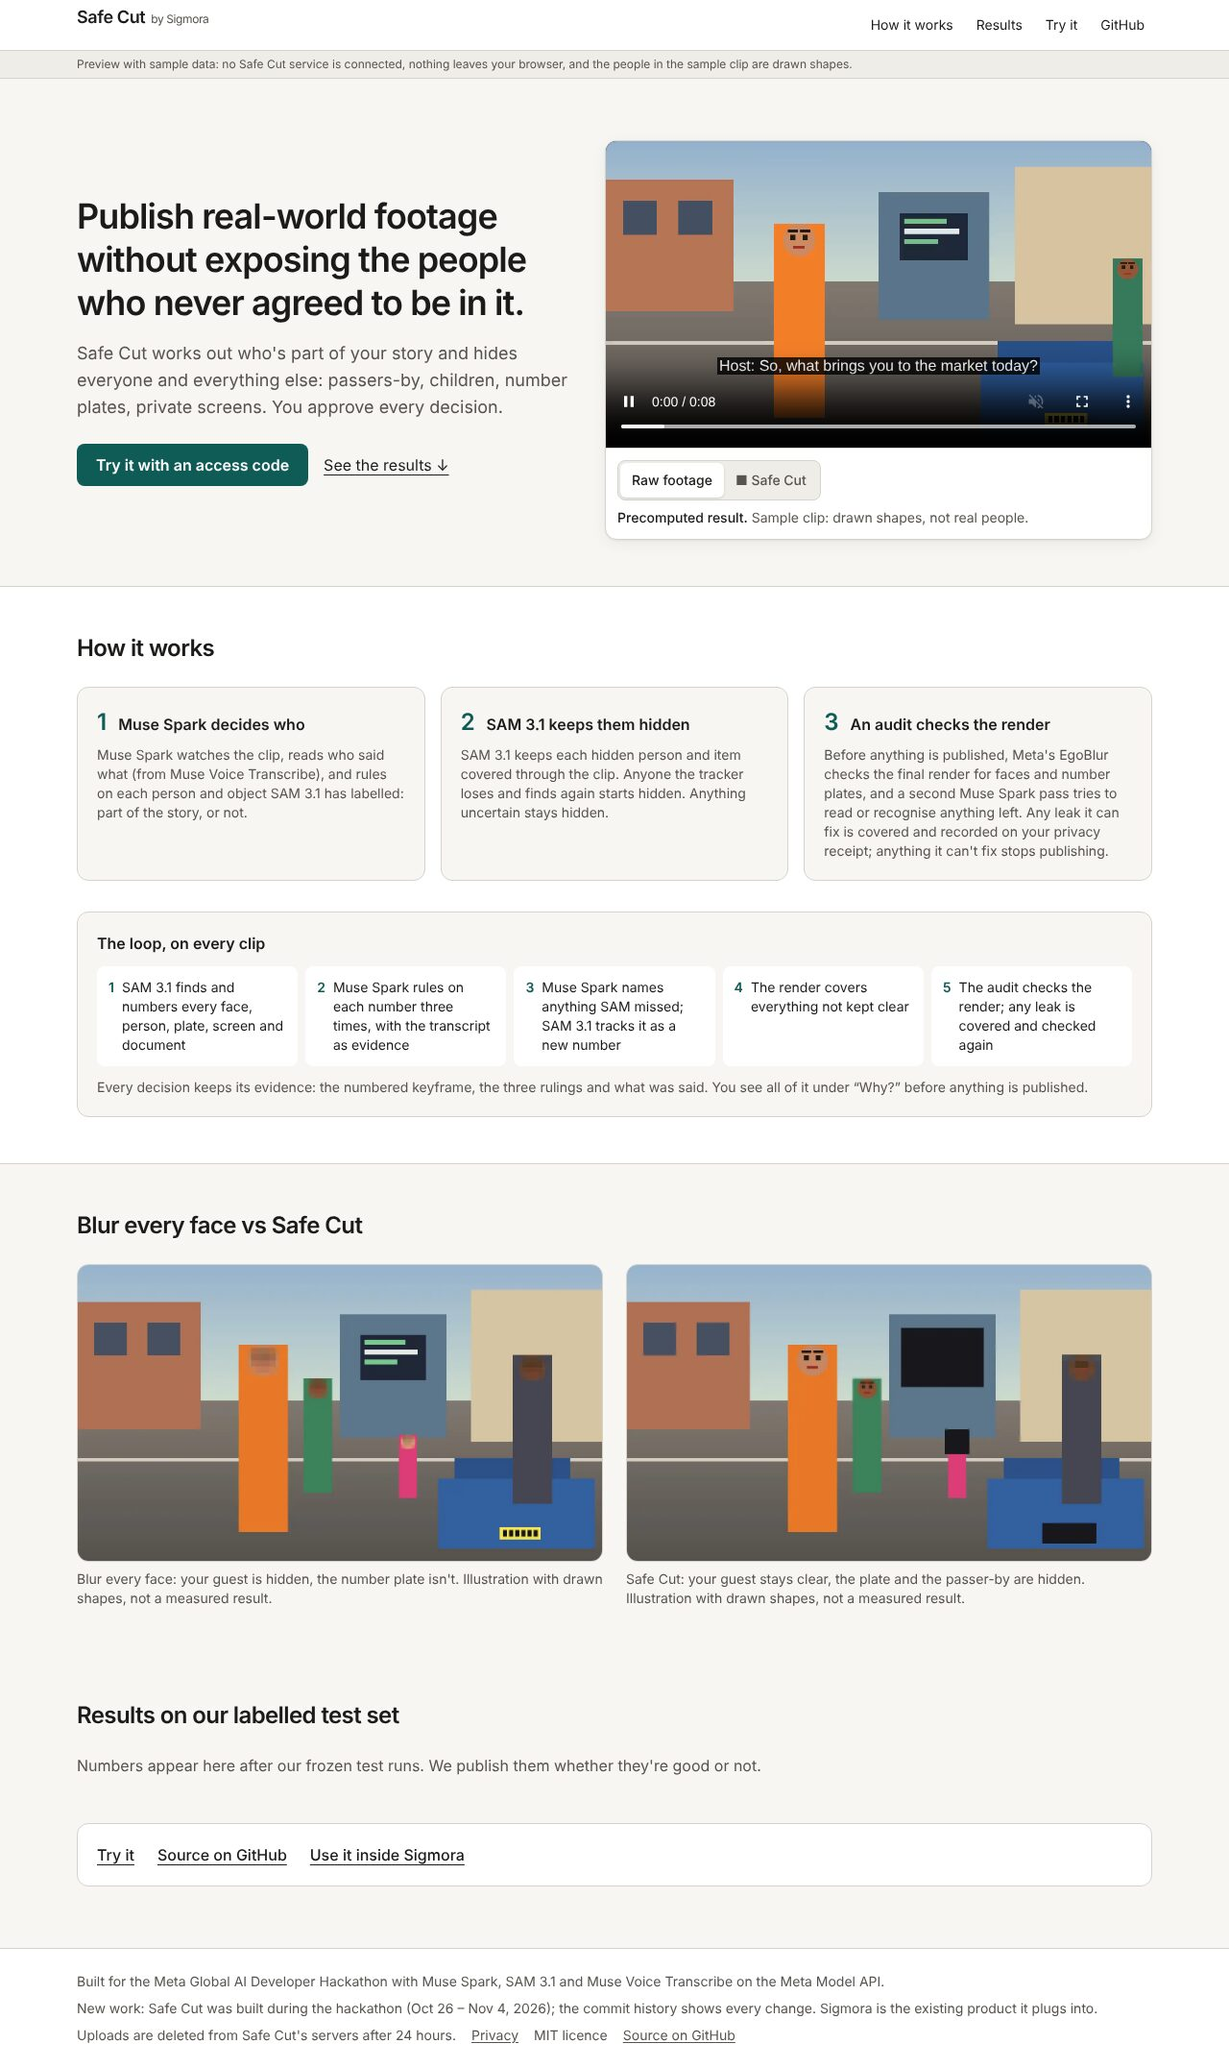
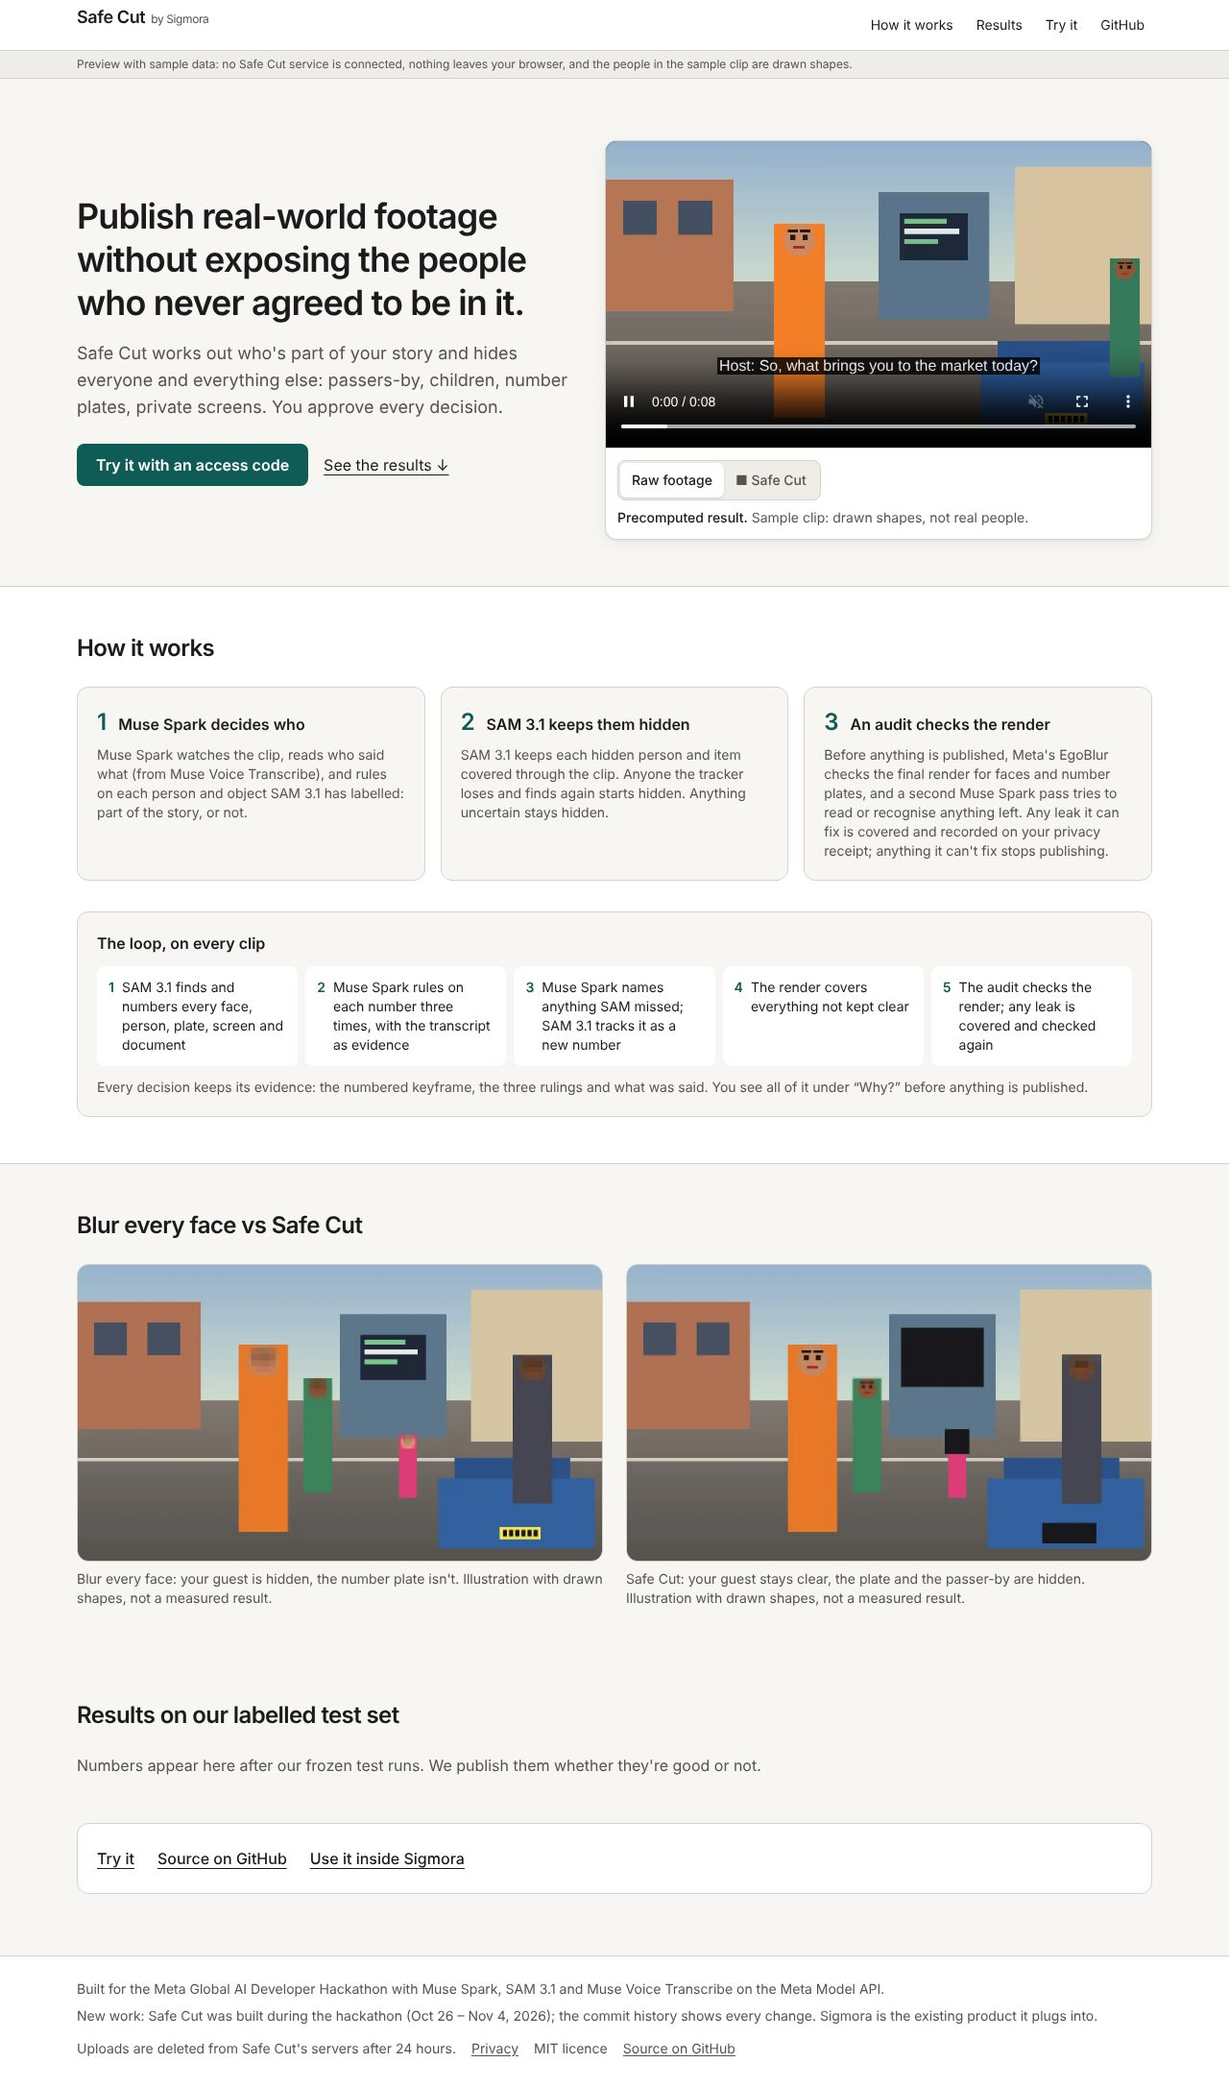
fix(web): audit round 9 (1 medium, 4 low): refusals announced and focused, focus kept during delete, timeline selection
- A refused Approve & render / Run the audit again, the code-cap line and
  action errors are role=alert and take focus (the button may be disabled);
  a failed job's answers sit before its buttons.
- An in-flight delete leaves its button aria-disabled, so focus returns to
  it; the test dialog polyfill now fires close from a task, as browsers do.
- The capped timeline always includes the selected item's row.
- Tab strip top padding for the focus ring; footer and landing links
  meet the 44/32 px targets; screenshots refreshed.

Claude-Session: https://claude.ai/code/session_01PMv2tTJFHGsGC5rcjHFfL1

diff --git a/web/src/components/job/JobPage.test.tsx b/web/src/components/job/JobPage.test.tsx
@@ -370,7 +370,34 @@ describe("job states", () => {
     await user.click(within(await screen.findByRole("dialog")).getByRole("button", { name: "Delete" }));
     await waitFor(() => expect(screen.getByRole("button", { name: "Delete now" })).toBeDisabled());
     // The disabled button can't keep focus, so the error takes it rather than the page (WCAG 2.4.3).
-    await waitFor(() => expect(screen.getByText("Too many tries in a short time. Wait a minute and try again.", { selector: "p[role=alert]" })).toHaveFocus());
+    // Try again's answer and the delete's share their copy: the delete's is the newer one, and has focus.
+    await waitFor(() => expect(screen.getAllByText("Too many tries in a short time. Wait a minute and try again.", { selector: "p[role=alert]" }).at(-1)).toHaveFocus());
+  });
+
+  it("a refused Approve & render is announced and takes focus, since its button is now disabled", async () => {
+    const user = setup("job-review-hero1");
+    await screen.findByText("2 hidden · 1 kept clear · 1 needs you");
+    backend.inject(/\/render$/, "error-429-rate");
+    await user.click(screen.getByRole("button", { name: "Approve & render" }));
+    const alert = await screen.findByText("Too many tries in a short time. Wait a minute and try again.", { selector: "p[role=alert]" });
+    await waitFor(() => expect(alert).toHaveFocus());
+    expect(screen.getByRole("button", { name: "Approve & render" })).toBeDisabled();
+  });
+
+  it("while a confirmed delete is in flight, its button keeps focus and only looks disabled", async () => {
+    const user = setup("job-processing-track");
+    const original = backend.request.bind(backend);
+    vi.spyOn(backend, "request").mockImplementation(async (init) => {
+      if (init.method === "DELETE") await new Promise((r) => setTimeout(r, 400));
+      return original(init);
+    });
+    const button = await screen.findByRole("button", { name: "Cancel and delete" });
+    await user.click(button);
+    await user.click(within(await screen.findByRole("dialog")).getByRole("button", { name: "Delete" }));
+    await waitFor(() => expect(button).toHaveAttribute("aria-disabled", "true"));
+    await waitFor(() => expect(button).toHaveFocus());
+    await user.click(button);
+    expect(screen.queryByRole("dialog")).toBeNull();
   });
 
   it("a rate-limited Cancel and delete while processing waits out Retry-After", async () => {

diff --git a/web/src/components/ui.tsx b/web/src/components/ui.tsx
@@ -6,7 +6,7 @@ import { useEffect, useRef } from "react";
 export const btn = {
   primary: "inline-flex min-h-11 items-center justify-center gap-2 rounded-lg bg-accent px-4 font-semibold text-accent-text hover:bg-accent-hover disabled:cursor-not-allowed disabled:opacity-50 lg:min-h-9",
   secondary: "inline-flex min-h-11 items-center justify-center gap-2 rounded-lg border border-border bg-surface px-3 font-medium hover:bg-surface-2 disabled:cursor-not-allowed disabled:opacity-50 lg:min-h-8",
-  danger: "inline-flex min-h-11 items-center justify-center gap-2 rounded-lg border border-danger px-3 font-medium text-danger hover:bg-danger-bg disabled:cursor-not-allowed disabled:opacity-50 lg:min-h-8",
+  danger: "inline-flex min-h-11 items-center justify-center gap-2 rounded-lg border border-danger px-3 font-medium text-danger hover:bg-danger-bg disabled:cursor-not-allowed disabled:opacity-50 aria-disabled:cursor-not-allowed aria-disabled:opacity-50 lg:min-h-8",
   link: "inline-flex min-h-11 items-center underline underline-offset-4 lg:min-h-8",
 } as const;
 
@@ -124,16 +124,17 @@ export function MessagePage({ message, actions }: { message: string; actions: Ar
 }
 
 /**
- * A delete's error next to its control. It takes focus when it appears: the control may be
- * disabled by then (a cooldown, a request in flight), and focus must not fall to the page (WCAG 2.4.3).
+ * The answer to an action (a delete's error, a refused render), next to its control. It takes
+ * focus when it appears: the control may be disabled by then (a cooldown, a refusal, a request in
+ * flight), and focus must not fall to the page (WCAG 2.4.3). `plain` is for refusals that aren't errors.
  */
-export function ActionError({ message, className }: { message: string; className?: string }) {
+export function ActionError({ message, className, tone = "danger" }: { message: string; className?: string; tone?: "danger" | "plain" }) {
   const ref = useRef<HTMLParagraphElement>(null);
   useEffect(() => {
     ref.current?.focus();
   }, [message]);
   return (
-    <p ref={ref} role="alert" tabIndex={-1} className={`text-danger ${className ?? ""}`.trim()}>
+    <p ref={ref} role="alert" tabIndex={-1} className={`${tone === "danger" ? "text-danger" : ""} ${className ?? ""}`.trim()}>
       {message}
     </p>
   );

diff --git a/web/src/components/review/ReviewPanel.tsx b/web/src/components/review/ReviewPanel.tsx
@@ -567,7 +567,7 @@ export function ReviewPanel({ jobId, job, viewReview, onPatchJob, onResume, onRe
           <div className="grid grid-cols-3 gap-5">{COLUMNS.map(renderColumn)}</div>
         ) : (
           <div>
-            <div role="tablist" aria-label="Decisions" className="-mx-4 flex gap-2 overflow-x-auto px-4 pb-2">
+            <div role="tablist" aria-label="Decisions" className="-mx-4 -mt-1 flex gap-2 overflow-x-auto px-4 pt-1 pb-2">
               {COLUMNS.map((col) => (
                 <button
                   key={col.key}
@@ -927,17 +927,15 @@ function BottomBar({
     // nearly everything, so it sits at the end of the panel instead (WCAG 2.4.11, 1.4.10).
     <div ref={barRef} className="mt-6 border-t border-border bg-surface/95 backdrop-blur [@media(min-height:480px)]:fixed [@media(min-height:480px)]:inset-x-0 [@media(min-height:480px)]:bottom-0 [@media(min-height:480px)]:z-20 [@media(min-height:480px)]:mt-0">
       <div className="mx-auto flex max-w-6xl flex-col gap-2 px-4 py-3">
-        {state.capNote && <p className="text-sm">{COPY.codeCapJob}</p>}
-        {text && <p className="font-medium">{text}</p>}
+        {/* An answer to the button just pressed is announced and takes focus: that button may now be
+            disabled, and focus must not fall to the page (WCAG 4.1.3, 2.4.3). */}
+        {state.capNote && <ActionError message={COPY.codeCapJob} className="text-sm" tone="plain" />}
+        {text && (bar.kind === "refused" ? <ActionError message={text} className="font-medium" tone="plain" /> : <p className="font-medium">{text}</p>)}
         <div className="flex flex-wrap items-center gap-2">
           {main}
           <span className="flex-1" />
           {deleteError && <ActionError message={deleteError} className="text-sm" />}
-          {error && (
-            <p role="alert" className="text-sm text-danger">
-              {error}
-            </p>
-          )}
+          {error && <ActionError message={error} className="text-sm" />}
           <button type="button" className={btn.danger} onClick={onDelete} disabled={deleteDisabled}>
             Delete everything now
           </button>

diff --git a/web/src/components/review/VideoPane.tsx b/web/src/components/review/VideoPane.tsx
@@ -28,6 +28,16 @@ export interface VideoPaneProps {
 
 const noSubscribe = () => () => undefined;
 
+export const TIMELINE_ROWS = 24;
+
+/** The timeline's rows: the first `TIMELINE_ROWS` items, the last swapped for the selection if it's further down. */
+export function timelineRows<T extends { id: string }>(timeline: readonly T[], selected: string | null): T[] {
+  const rows = timeline.slice(0, TIMELINE_ROWS);
+  if (!selected || rows.some((t) => t.id === selected)) return rows;
+  const pick = timeline.find((t) => t.id === selected);
+  return pick ? [...rows.slice(0, TIMELINE_ROWS - 1), pick] : rows;
+}
+
 export const VideoPane = forwardRef<VideoPaneHandle, VideoPaneProps>(function VideoPane(props, ref) {
   const { src, captionsUrl, fps, frames, width, height, timeline, selected, onMediaError } = props;
   const video = useRef<HTMLVideoElement>(null);
@@ -211,9 +221,10 @@ export const VideoPane = forwardRef<VideoPaneHandle, VideoPaneProps>(function Vi
         <p className="text-muted">Preview. The final render covers the same areas.</p>
         {!rvfc && <p className="text-muted">Preview may lag by a frame in this browser. The final render isn&apos;t affected.</p>}
       </div>
-      {/* Decorative (the chips carry the same spans): the first 24 items, so a long list can't push the chips away. */}
+      {/* Decorative (the chips carry the same spans): 24 rows at most, so a long list can't push the
+          chips away, always including the selected item so its bars light up (§3.3). */}
       <div aria-hidden="true" className="relative mt-2 hidden flex-col gap-0.5 lg:col-start-1 lg:flex lg:w-[var(--player-lg-w)]">
-        {timeline.slice(0, 24).map((t) => (
+        {timelineRows(timeline, selected).map((t) => (
           <div key={t.id} className="relative h-1.5 rounded bg-surface-2">
             <div
               className={`absolute h-full rounded ${t.id === selected ? "bg-accent" : t.covered ? "bg-hidden-fg/40" : "bg-kept-fg/40"}`}

diff --git a/web/src/components/job/FailedJob.tsx b/web/src/components/job/FailedJob.tsx
@@ -83,6 +83,9 @@ export function FailedJob({ jobId, job, onResume, onDeleted }: { jobId: string; 
       <div role="alert">
         <h1 className="text-xl font-medium">{view.message}</h1>
       </div>
+      {/* Answers to the buttons below come before them, so Tab moves on from an answer to its button. */}
+      {note && <ActionError message={note} className="mt-3" tone="plain" />}
+      {deleteError && <ActionError message={deleteError} className="mt-3" />}
       <div className="mt-6 flex flex-wrap items-center gap-3">
         {view.actions.includes("try_again") && (
           <button type="button" className={btn.primary} disabled={busy || blocked || waiting} onClick={() => void retry()}>
@@ -111,12 +114,6 @@ export function FailedJob({ jobId, job, onResume, onDeleted }: { jobId: string; 
           Delete now
         </button>
       </div>
-      {note && (
-        <p role="status" className="mt-3">
-          {note}
-        </p>
-      )}
-      {deleteError && <ActionError message={deleteError} className="mt-3" />}
       <ConfirmDialog
         open={confirm}
         title={job.has_render ? "Delete everything now?" : "Delete this clip?"}

diff --git a/web/src/app/page.tsx b/web/src/app/page.tsx
@@ -49,13 +49,13 @@ export default function Home() {
 
       <section aria-label="Next steps" className="mx-auto max-w-6xl px-4">
         <p className="flex flex-wrap gap-x-6 gap-y-2 rounded-xl border border-border bg-surface p-5 font-medium">
-          <Link href="/try" className="underline underline-offset-4">
+          <Link href="/try" className="inline-flex min-h-11 items-center underline underline-offset-4 lg:min-h-8">
             Try it
           </Link>
-          <a href={SITE.repoUrl} className="underline underline-offset-4" rel="noopener noreferrer" target="_blank">
+          <a href={SITE.repoUrl} className="inline-flex min-h-11 items-center underline underline-offset-4 lg:min-h-8" rel="noopener noreferrer" target="_blank">
             Source on GitHub
           </a>
-          <a href={SITE.sigmoraUrl} className="underline underline-offset-4" rel="noopener noreferrer" target="_blank">
+          <a href={SITE.sigmoraUrl} className="inline-flex min-h-11 items-center underline underline-offset-4 lg:min-h-8" rel="noopener noreferrer" target="_blank">
             Use it inside Sigmora
           </a>
         </p>

diff --git a/web/src/components/Footer.tsx b/web/src/components/Footer.tsx
@@ -9,13 +9,13 @@ export function Footer() {
         <p>
           New work: Safe Cut was built during the hackathon (Oct 26 – Nov 4, 2026); the commit history shows every change. Sigmora is the existing product it plugs into.
         </p>
-        <p className="flex flex-wrap gap-x-4 gap-y-1">
+        <p className="flex flex-wrap items-center gap-x-4 gap-y-1">
           <span>Uploads are deleted from Safe Cut&apos;s servers after 24 hours.</span>
-          <Link href="/privacy" className="underline underline-offset-2">
+          <Link href="/privacy" className="inline-flex min-h-11 items-center underline underline-offset-2 lg:min-h-8">
             Privacy
           </Link>
           <span>MIT licence</span>
-          <a href={SITE.repoUrl} className="underline underline-offset-2" rel="noopener noreferrer" target="_blank">
+          <a href={SITE.repoUrl} className="inline-flex min-h-11 items-center underline underline-offset-2 lg:min-h-8" rel="noopener noreferrer" target="_blank">
             Source on GitHub
           </a>
         </p>

diff --git a/web/src/components/job/ProgressView.tsx b/web/src/components/job/ProgressView.tsx
@@ -139,7 +139,14 @@ export function ProgressView({
       </div>
       <div className="mt-4 flex flex-wrap items-center justify-end gap-3">
         {deleteError && <ActionError message={deleteError} />}
-        <button type="button" className={btn.danger} disabled={coolingDown || deleting} onClick={() => setConfirm(true)}>
+        <button type="button" className={btn.danger} disabled={coolingDown}
+          // In flight it only looks disabled: the dialog hands focus back to it, and a disabled
+          // button would drop focus to the page (WCAG 2.4.3).
+          aria-disabled={deleting || undefined}
+          onClick={() => {
+            if (!deleting) setConfirm(true);
+          }}
+        >
           Cancel and delete
         </button>
       </div>

diff --git a/web/src/components/review/timeline.test.ts b/web/src/components/review/timeline.test.ts
@@ -1,0 +1,15 @@
+import { describe, expect, it } from "vitest";
+import { TIMELINE_ROWS, timelineRows } from "./VideoPane";
+
+const items = Array.from({ length: 60 }, (_, i) => ({ id: `i_${i}` }));
+
+describe("timeline rows (§3.3)", () => {
+  it("shows at most the cap, and always the selected item", () => {
+    expect(timelineRows(items, null)).toHaveLength(TIMELINE_ROWS);
+    expect(timelineRows(items, "i_3").map((t) => t.id)).toEqual(items.slice(0, TIMELINE_ROWS).map((t) => t.id));
+    const rows = timelineRows(items, "i_40");
+    expect(rows).toHaveLength(TIMELINE_ROWS);
+    expect(rows.at(-1)?.id).toBe("i_40");
+    expect(timelineRows(items.slice(0, 5), "i_40")).toHaveLength(5);
+  });
+});

diff --git a/web/vitest.setup.ts b/web/vitest.setup.ts
@@ -31,7 +31,8 @@ if (typeof window !== "undefined") {
   };
   proto.close ??= function close(this: HTMLDialogElement) {
     this.removeAttribute("open");
-    this.dispatchEvent(new Event("close"));
+    // Browsers fire `close` from a queued task, not synchronously inside close().
+    setTimeout(() => this.dispatchEvent(new Event("close")), 0);
   };
 
   Object.defineProperty(HTMLMediaElement.prototype, "play", { configurable: true, value: vi.fn(() => Promise.resolve()) });

diff --git a/.agent/win/SAFECUT-WP6/reaudit.md b/.agent/win/SAFECUT-WP6/reaudit.md
@@ -1,4 +1,4 @@
-AUDITED_COMMIT: a847826
+AUDITED_COMMIT: da3d5da
 OPEN_CRITICAL: 0
 OPEN_HIGH: 0
 CLEAN_AUDITS_IN_A_ROW: 0
@@ -161,3 +161,15 @@ Fresh-clone README run also found: `pnpm typecheck` failed before any build (Nex
 | 2 | low | On narrow phones the open tab ("Needs you", the last) was clipped and focusing it didn't scroll it in | fixed: the strip scrolls sideways so the open or focused tab, focus ring included, is fully in it (never the page). e2e at 320 and 390 px |
 | 3 | low | After a rate-limited or failed delete the trigger was disabled and focus fell to `<body>` (WCAG 2.4.3) | fixed: the delete error (`ActionError`) takes focus when it appears, on progress, failed, result and review. JobPage test |
 | 4 | low | A stray `web/e2e-failure.png` from a debug run was committed | removed and git-ignored |
+
+## Round 9 (audited da3d5da by a Sonnet reviewer; mock build and a live-API build against a faked https API; tabbed 45–70 stops per page at 11 viewports; axe on 28 pages, light and dark, 0 violations; about 1,200 random UI actions with 0 page errors; each finding traced here; fixes in the next commit)
+
+0 critical, 0 high, 1 medium, 4 low.
+
+| # | Sev | Finding | Status |
+|---|---|---|---|
+| 1 | med | A refused Approve & render or Run the audit again (429, 401) was silent: the bar's text wasn't in a live region, and the disabled button dropped focus to `<body>`. A failed job's Try again lost focus too (WCAG 4.1.3, 2.4.3) | fixed: refusals, the cap line and action errors render as `ActionError` (`role=alert`, takes focus; `tone="plain"` for refusals). On a failed job the answers sit before the buttons, so Tab moves on from an answer to its button. JobPage test |
+| 2 | low | While a confirmed delete was in flight on the progress page, focus sat on `<body>` (the opener was disabled before the dialog returned focus) | fixed: in flight the button is `aria-disabled` (looks disabled, ignores presses, keeps focus). The test setup's `dialog.close()` polyfill now fires `close` from a queued task as browsers do; it was synchronous, so focus return was never exercised in unit tests. JobPage test |
+| 3 | low | The 24-row timeline cap dropped the selected item's bars past row 24 (§3.3) | fixed: the selection always gets a row (`timelineRows`); test |
+| 4 | low | The top of a mobile tab's focus ring was clipped by the scrolling strip | fixed: the strip has top padding |
+| 5 | low | Footer and landing bottom links were 20–24 px tall; §3.8/§9 ask 44 px on mobile, 32 px on desktop | fixed: `min-h-11 lg:min-h-8` |

diff --git a/.agent/win/SAFECUT-WP6/HANDOFF.md b/.agent/win/SAFECUT-WP6/HANDOFF.md
@@ -40,6 +40,13 @@
   - The tab strip reveals the open tab.
   - A delete error takes focus.
 - On the round-8 commit: 801 tests, e2e 87/87, `checks.sh` exit 0. Screenshots refreshed.
+- Audit round 9 (on da3d5da): 1 medium and 4 low, all fixed in the round-9 commit. Highlights:
+  - Refused actions are announced and take focus.
+  - An in-flight delete keeps focus.
+  - The selected item always has a timeline row.
+  - Bigger link targets.
+- On the round-9 commit: 804 tests (28 files), e2e 87/87, `checks.sh` exit 0.
+- Known stale asset: `web/docs/screenshots/review-flow.gif` predates the round-8 desktop layout; the JPG screenshots are current.
 - CLEAN_AUDITS_IN_A_ROW is 0. Two clean full audits are still needed, then a fresh break-it.md (fresh clone + FUZZ_RUNS=100000).
 
 ## Next steps, in order
